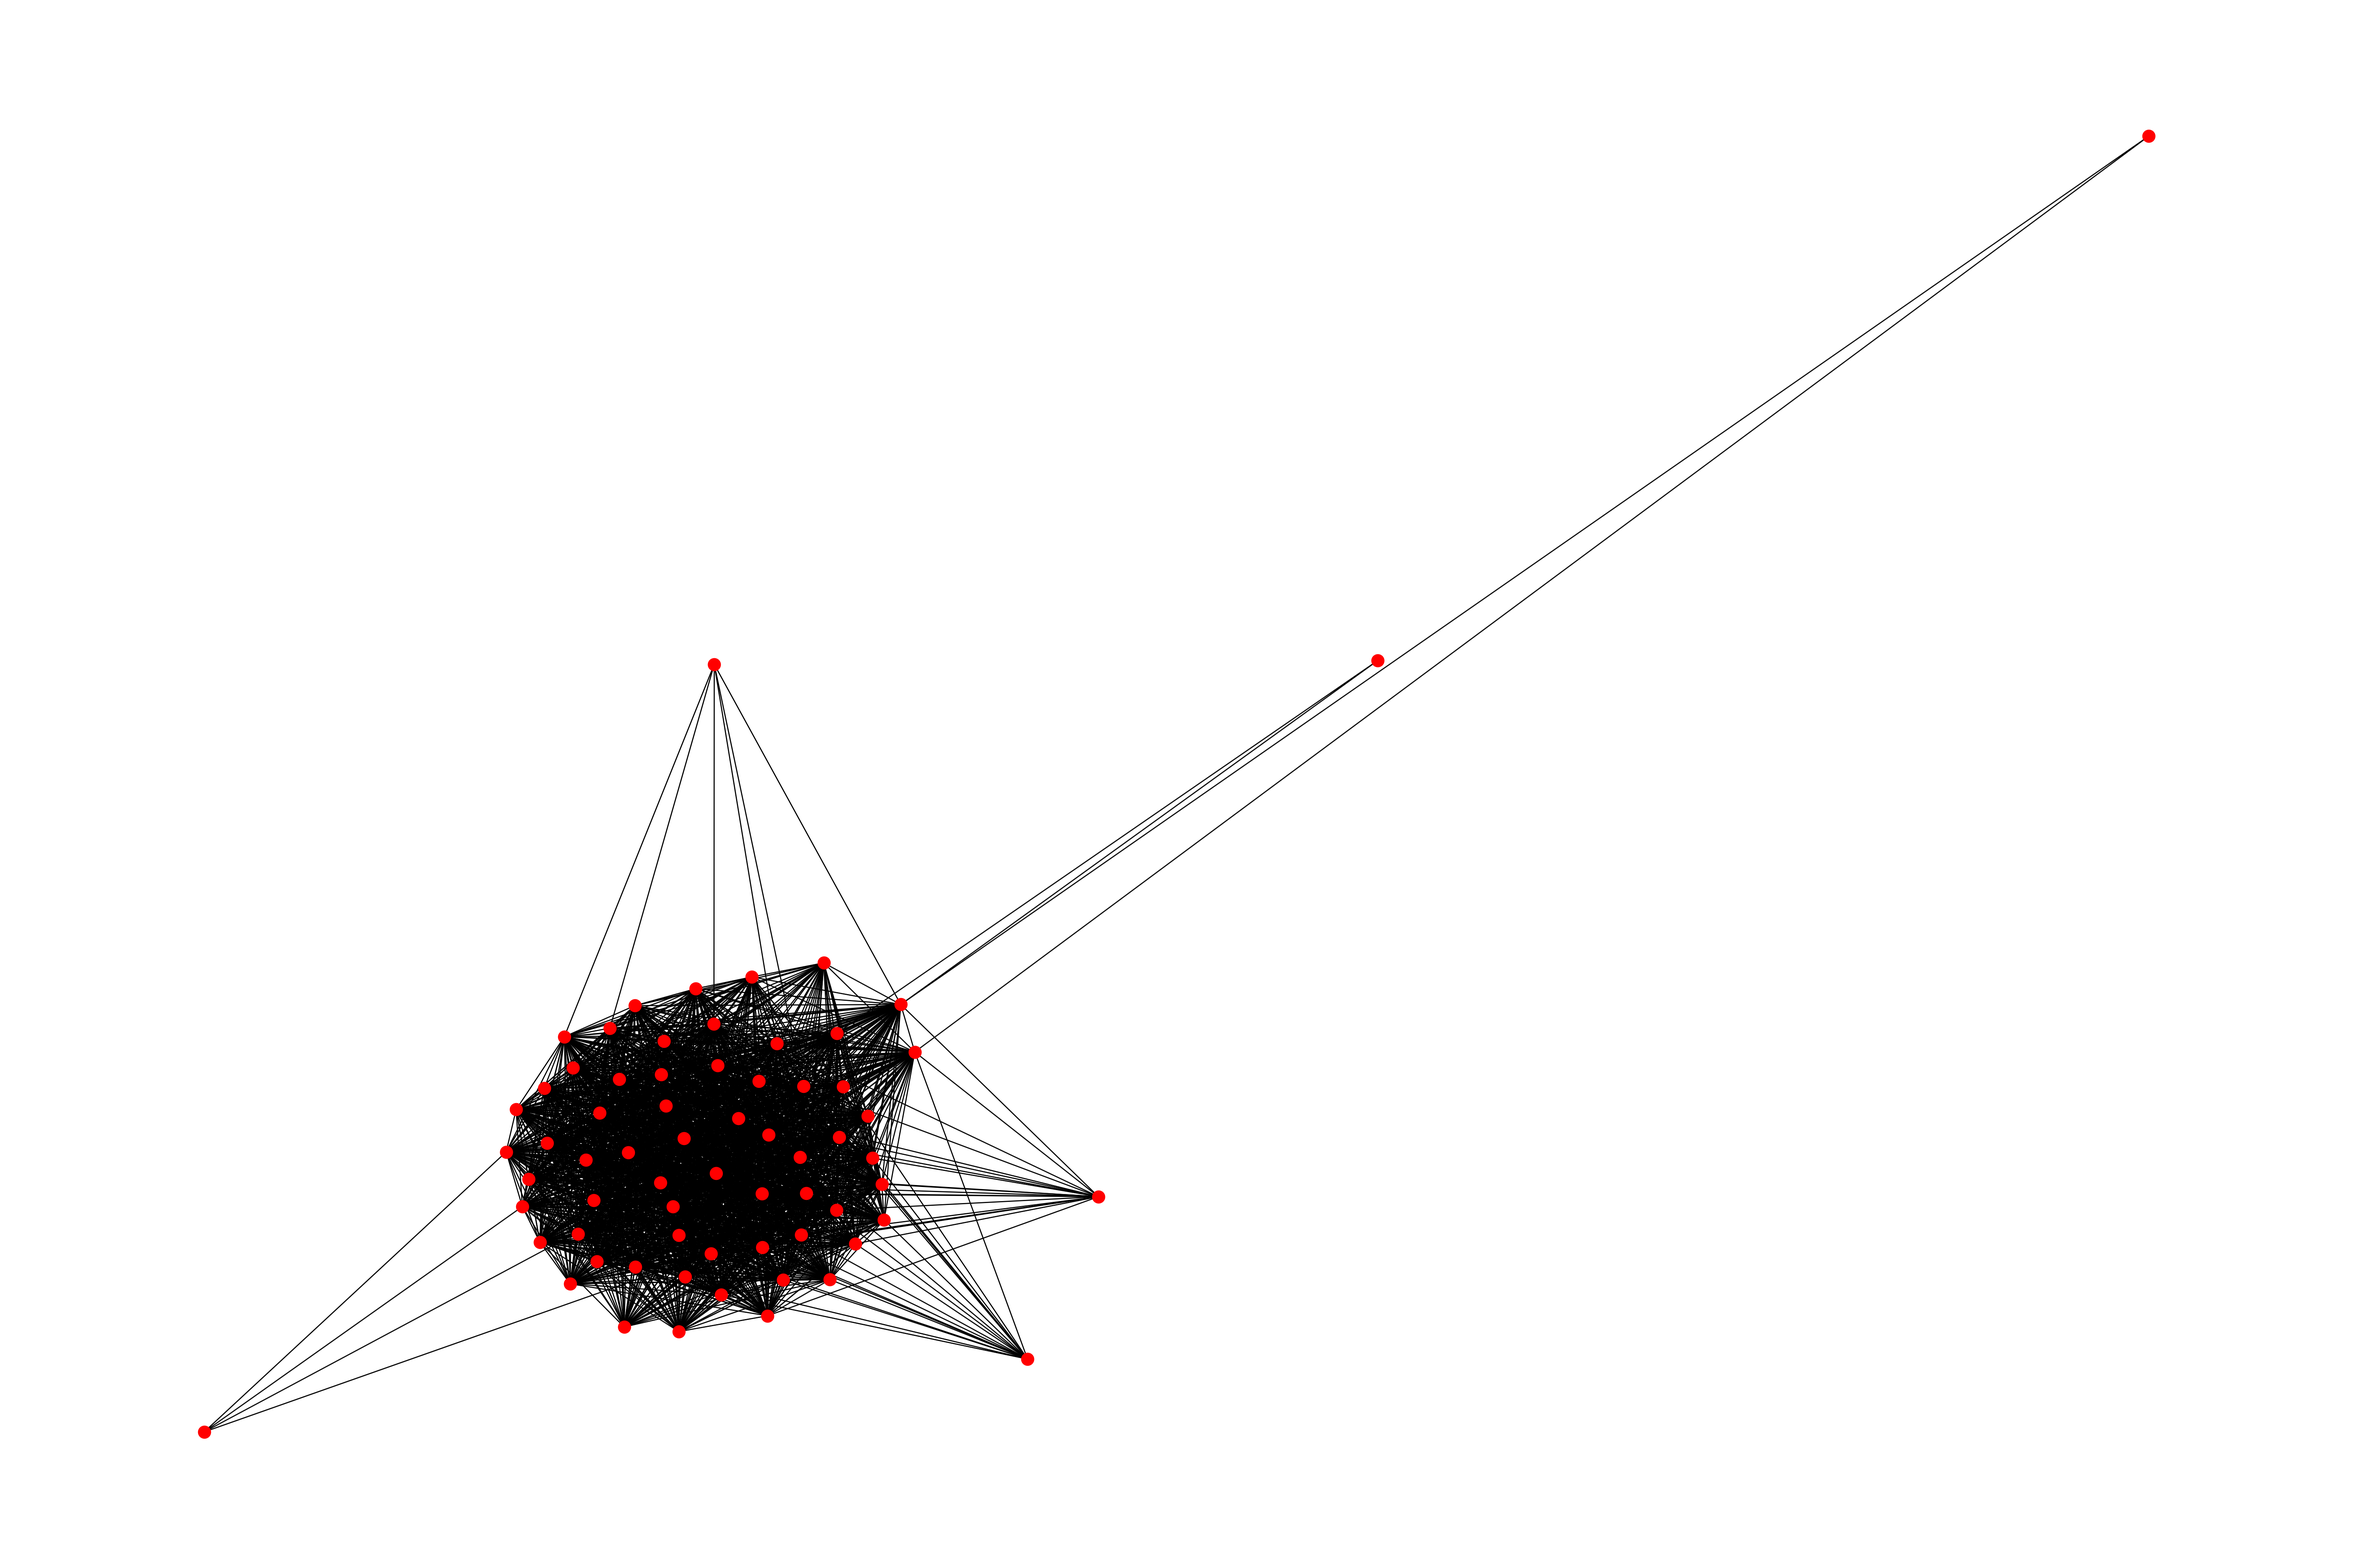
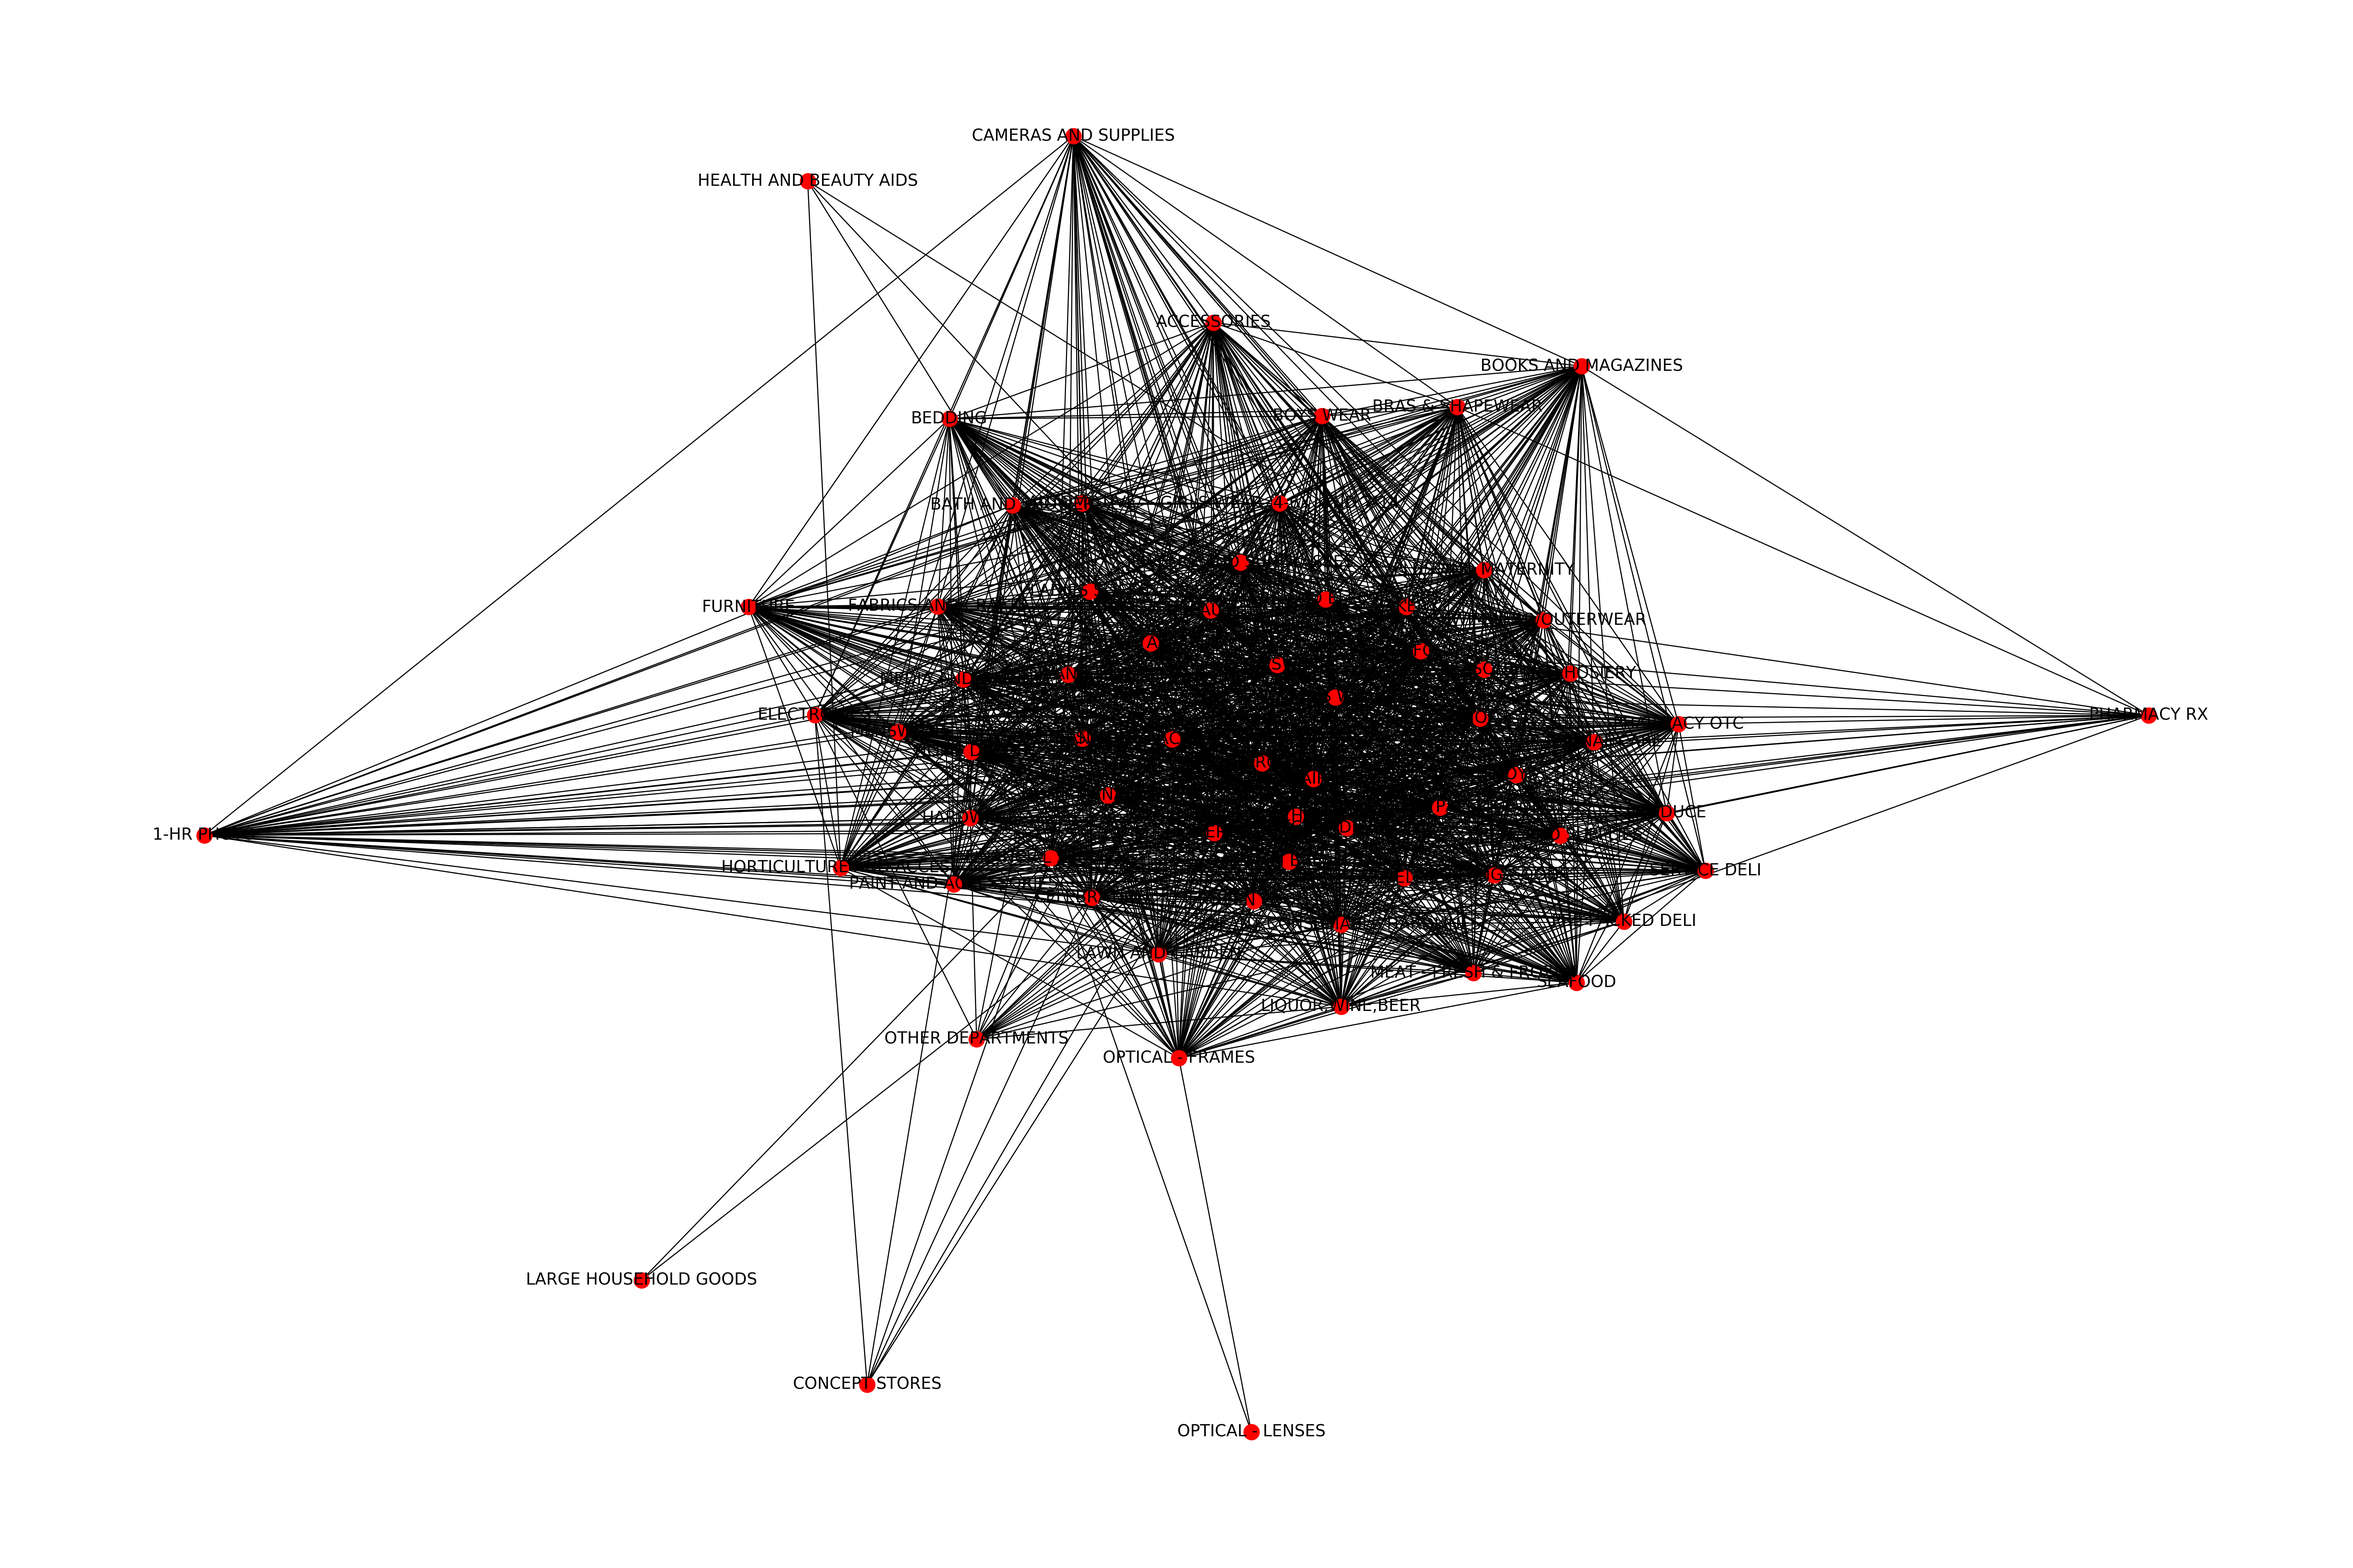
final raw code

diff --git a/code.py b/code.py
@@ -184,59 +184,108 @@ data2 = data2.drop('FinelineNumber', axis = 1)
 from sklearn.decomposition import PCA
 pca = PCA(n_components = 100)
 pca_fln = pca.fit_transform(x)
-pca_fln = pd.DataFrame(pca_fln)
+pca_fln = pd.DataFrame(pca_fln, columns=["fln"+str(x) for x in range(100)])
 data2 = pd.concat([data2,pca_fln], axis = 1)
 
+######################################################
 
+dept_corr = data.groupby(['VisitNumber','DepartmentDescription']).size().reset_index()
+dept_corr = pd.merge(left=dept_corr,right=dept_corr,how='left',on='VisitNumber')
+dept_corr = dept_corr.groupby(['DepartmentDescription_x','DepartmentDescription_y']).size().reset_index()
+dept_corr = dept_corr.pivot_table(index='DepartmentDescription_x', columns='DepartmentDescription_y', values=0)
+dept_corr = dept_corr.fillna(0)
+for i in range(len(set(data.DepartmentDescription))):
+    dept_corr.iloc[i,i] = 0
+dept_corr = dept_corr.div(dept_corr.max(axis = 1), axis = 0)
+dept_corr = dept_corr.values
+
+dept_freq = data.groupby(['VisitNumber','DepartmentDescription']).size().reset_index()
+dept_freq = dept_freq.pivot_table(index='VisitNumber', columns='DepartmentDescription', values=0)
+dept_freq = dept_freq.fillna(0)
+dept_freq_ind = dept_freq.index
+dept_freq = dept_freq.values
+
+dept_diff = dept_freq
+for i in range(len(set(data.DepartmentDescription))):
+    a = 0.2*dept_freq[:,i]
+    a = np.reshape(a,(a.shape[0],1))
+    b = dept_corr[i,:]
+    c = b*a
+    dept_diff = dept_diff + c
+
+dept_diff = pd.DataFrame(dept_diff, columns = ["dept"+str(x) for x in range(len(set(data.DepartmentDescription)))])
+dept_diff['VisitNumber'] = dept_freq_ind
+
+data2 = pd.merge(left=data2,right=dept_diff,how='left',left_on='VisitNumber',right_on='VisitNumber')
+data2.iloc[:,-68:] = sc_X.fit_transform(data2.iloc[:,-68:])
+
+'''
+import networkx as nx    
+G = nx.from_numpy_matrix(dept_corr.values)
+G = nx.relabel_nodes(G, dict(enumerate(dept_corr.columns)))
+nx.draw(G, pos=nx.spring_layout(G), with_labels=True, node_size = 4, width = 0.2, font_size = 3)
+plt.savefig("labels.png", format="PNG",dpi=1000)
+'''
+
+####################################################
 
 from sklearn.cross_validation import train_test_split
 X_train, X_test, y_train, y_test = train_test_split(data2.iloc[:,2:] ,data2.iloc[:,0],test_size = 0.2)
 
 # Applying Random Forest Classifier
-'''from sklearn.ensemble import RandomForestClassifier
+'''
+from sklearn.ensemble import RandomForestClassifier
 classifier = RandomForestClassifier(n_estimators = 250, criterion = 'entropy')
 classifier.fit(X_train, y_train)
 y_pred = classifier.predict(X_test)
 sum(y_pred == y_test)/18041
-'''
+
+
 from sklearn.linear_model import LogisticRegression
 classifier = LogisticRegression()
 classifier.fit(X_train, y_train)
 y_pred = classifier.predict(X_test)
 sum(y_pred == y_test)/18041
 
+from xgboost import XGBClassifier
+classifier = XGBClassifier()
+classifier.fit(X_train, y_train)
+y_pred = classifier.predict(X_test)
+sum(y_pred == y_test)/18041
+'''
 
 
 
 
-import networkx as nx
-
-G = np.zeros(shape = (3,3))
-G[1,0] = 1
-G[2,0] = 1
-G[0,1] = 1
-G[0,2] = 1
 
 
-T_conv.get_edge_data(1,2)
-plt.show()
-
-a = data.groupby(['VisitNumber','DepartmentDescription']).size().reset_index()
-b = pd.merge(left=a,right=a,how='left',on='VisitNumber')
-c = b.groupby(['DepartmentDescription_x','DepartmentDescription_y']).size().reset_index()
-c[0] = 1
-d = c.pivot_table(index='DepartmentDescription_x', columns='DepartmentDescription_y', values=0)
-d = d.fillna(0)
-d = d.values
-T_conv = nx.from_pandas_dataframe(c, 'DepartmentDescription_x', 'DepartmentDescription_y', 0)
-nx.draw(T_conv, with_labels=False, node_size = 2, width = 0.2)
-plt.savefig("labels.png", format="PNG",dpi=1000)
-[n for n, d in T_conv.nodes(data=True)]
-[(u, v, d) for u, v, d in T_conv.edges(data=True)]
-T_conv.has_edge('GROCERY DRY GOODS', 'PLAYERS AND ELECTRONICS')
 
 
-test = data.groupby(['VisitNumber','DepartmentDescription']).size().reset_index()
-test2 = test.pivot_table(index='VisitNumber', columns='DepartmentDescription', values=0)
-test2 = test2.fillna(0)
 
+import xgboost as xgb
+
+label_dict = pd.DataFrame(list(set(data.TripType)))
+label_dict['ind'] = pd.Series(list(label_dict.index))
+label_dict = label_dict.set_index(0).to_dict()['ind']
+y_train = y_train.map(label_dict)
+y_test = y_test.map(label_dict)
+
+xg_train = xgb.DMatrix(X_train.values, label=y_train.values)
+xg_test = xgb.DMatrix(X_test.values, label=y_test.values)
+# setup parameters for xgboost
+param = {}
+# use softmax multi-class classification
+param['objective'] = 'multi:softmax'
+# scale weight of positive examples
+param['eta'] = 0.2
+param['max_depth'] = 6
+param['silent'] = 1
+param['nthread'] = 4
+param['num_class'] = 38
+
+watchlist = [(xg_train, 'train'), (xg_test, 'test')]
+num_round = 15
+bst = xgb.train(param, xg_train, num_round, watchlist)
+# get prediction
+y_pred = bst.predict(xg_test)
+np.sum(y_pred == y_test.values) / y_test.shape[0]
